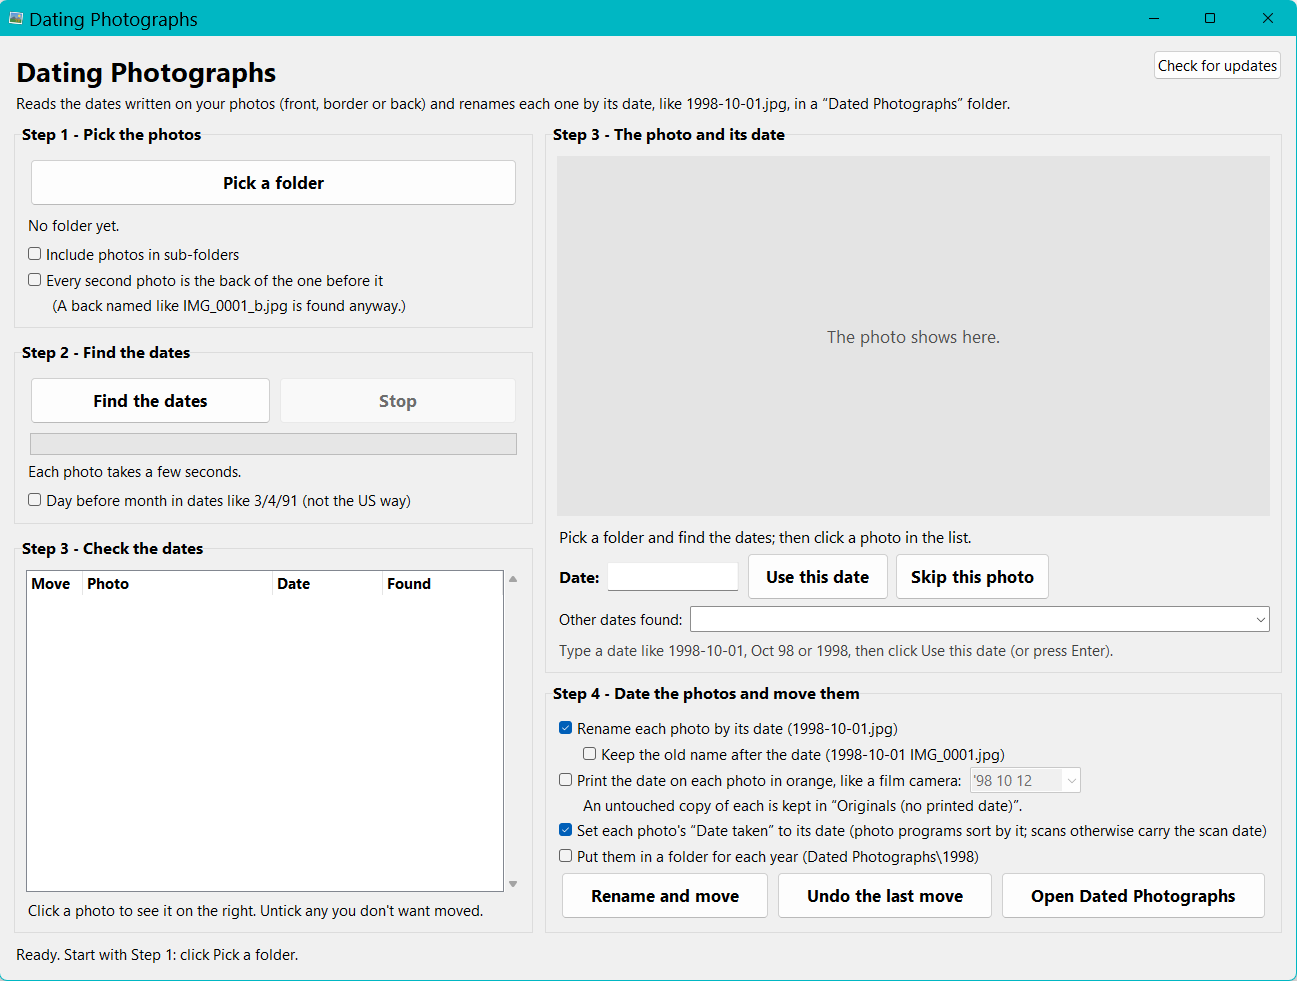
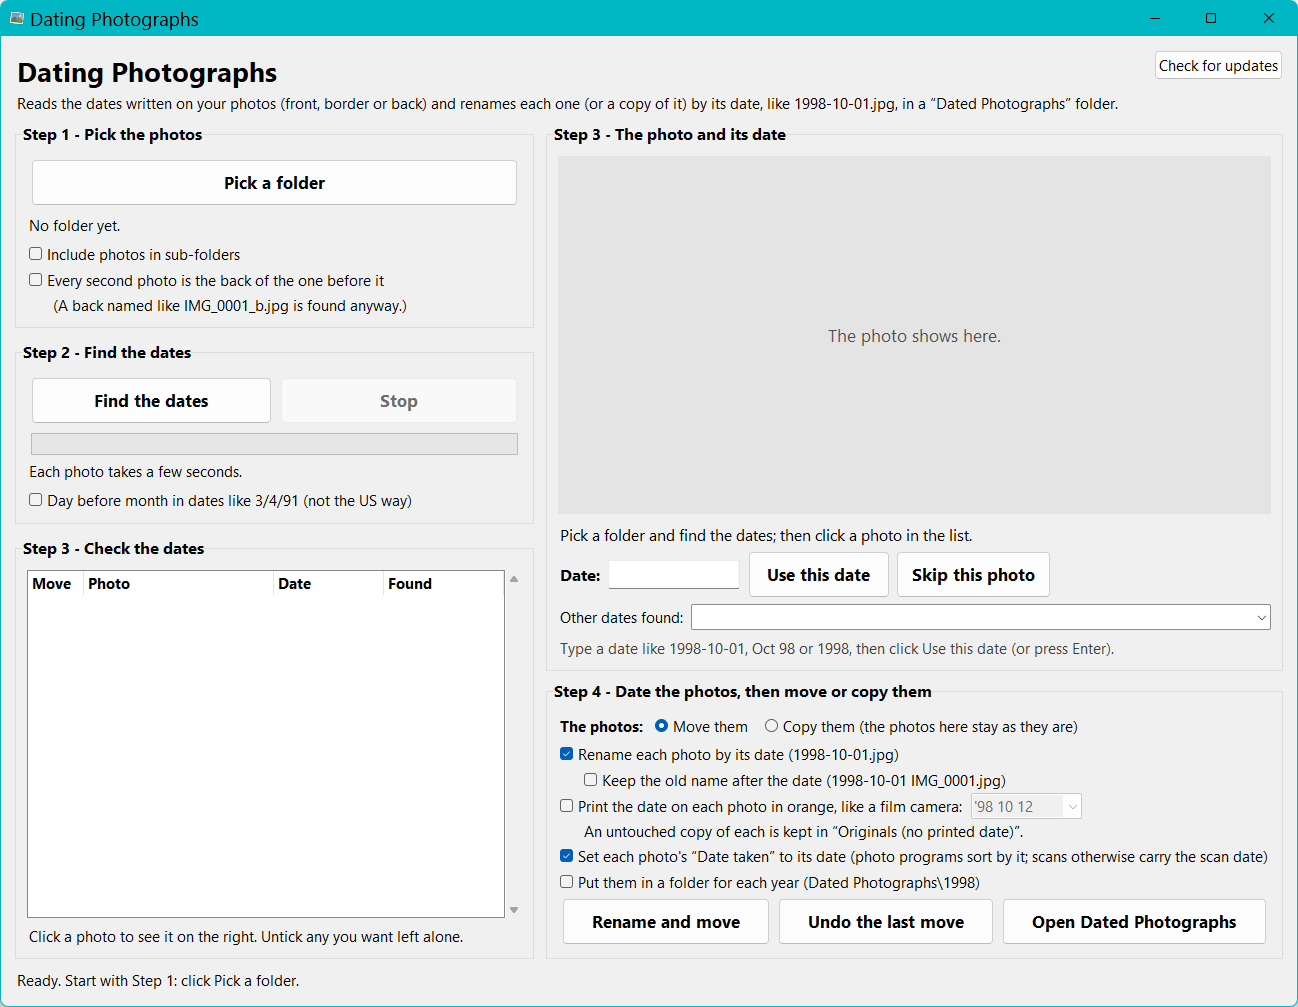
Dating Photographs 1.1.0: copy or move; PAD file, picture and README for the new version

diff --git a/README.md b/README.md
@@ -28,7 +28,7 @@ Each app has a **Check for updates** button that opens [the page with the newest
 | Proofreader | Fixes spelling, grammar, punctuation and capitals in Word, RTF and text files, saving corrected copies with a report. Its free checker works offline; Word is optional. |
 | Song Cleaner | Tidies a folder of MP3s recorded from the radio: better names, copies of the same song removed, talk trimmed from the ends. Nothing is deleted; Undo puts it back. |
 | Photo Stitcher | Joins overlapping photos into one big panorama, in any order: side by side, top to bottom, or in rows and columns. Trims the ragged edges; an Adjust window turns, squares up, crops and resizes it. Opens iPhone HEIC photos. Your photos are never changed. |
-| Dating Photographs | Reads the dates written on old photos (front, border or back, even in handwriting) and renames each one by its date, like 1998-10-01.jpg. You check every date first; it can also set Date taken and print the date in orange like a film camera. Undo puts everything back. |
+| Dating Photographs | Reads the dates written on old photos (front, border or back, even in handwriting) and renames each one, or a copy of it, by its date, like 1998-10-01.jpg. You check every date first; it can also set Date taken and print the date in orange like a film camera. Undo puts everything back. |
 
 
 ## Before you install
